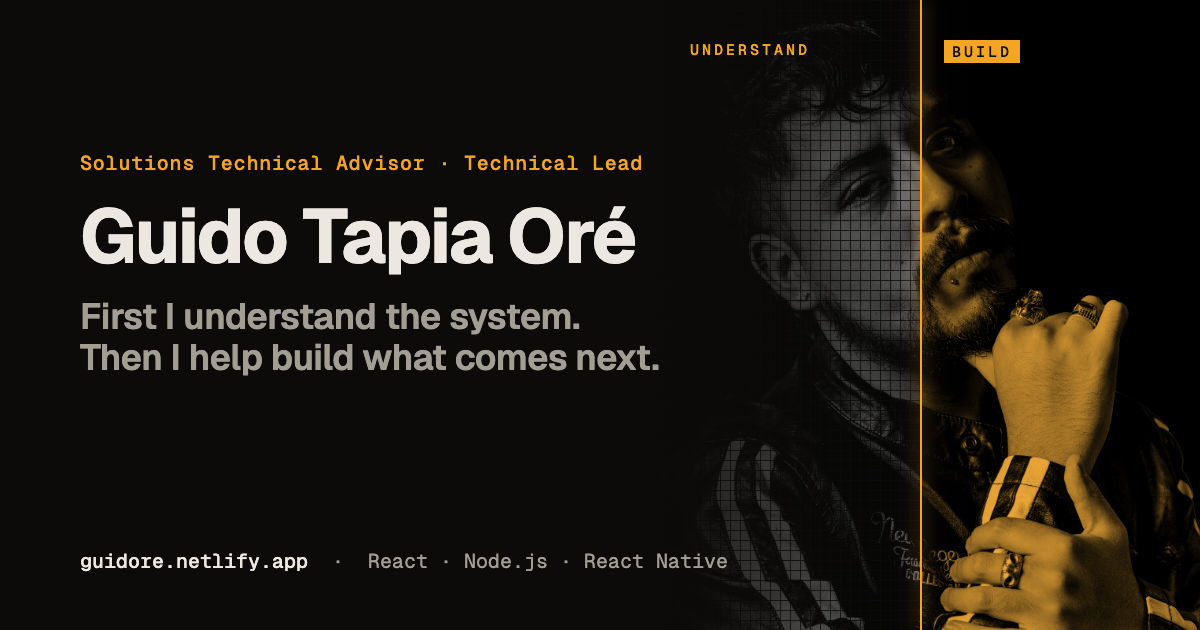
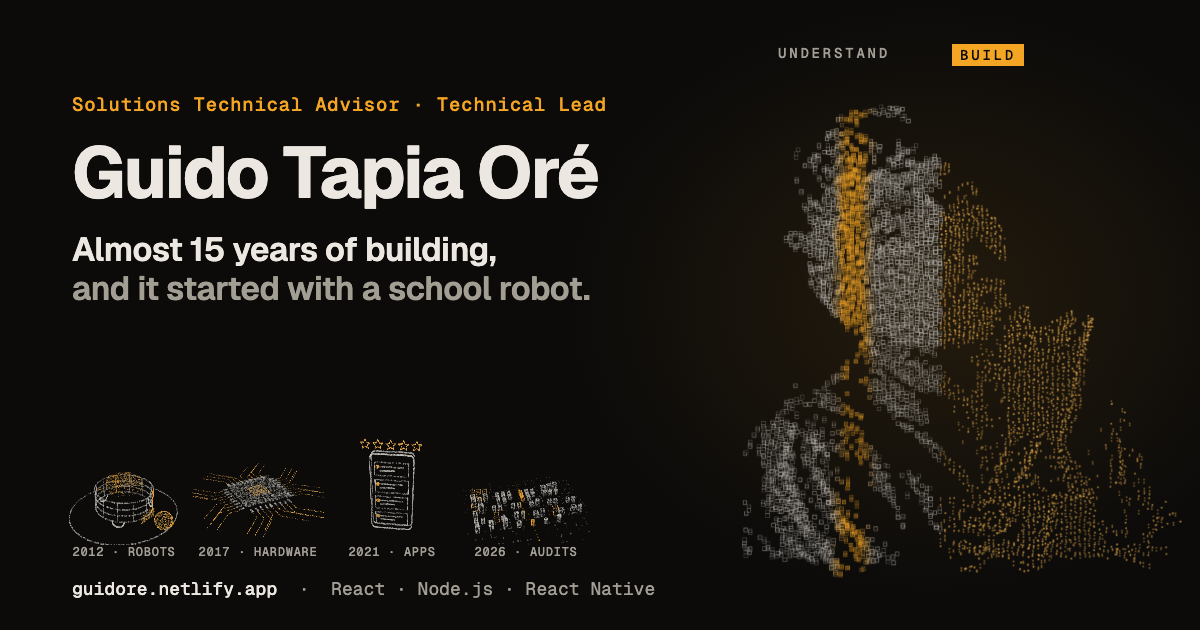
feat: page transitions, Story link, confirmed story facts, and a new OG card
- Native cross-document view transitions: case titles and covers glide from their card,
  the header stays put, the rest cross-fades. Off under reduced motion.
- Story link in the header; the nav fits from 860px up with an icon-only lens toggle
  below 1080px, and the menu takes over under 860px.
- Story: led the team in 2017 and 2018, freelance projects from 2018 to 2026 (latest
  Euterra) in the teaching chapter.
- OG card rebuilt from the story scene's own particle shapes.

diff --git a/src/i18n/ui.ts b/src/i18n/ui.ts
@@ -18,7 +18,13 @@ const en = {
     technologies: 'Technologies',
     skills: 'Skills',
   },
-  nav: { work: 'Work', experience: 'Experience', about: 'About', contact: 'Contact' },
+  nav: {
+    story: 'Story',
+    work: 'Work',
+    experience: 'Experience',
+    about: 'About',
+    contact: 'Contact',
+  },
   resume: 'Resume',
   resumePdf: 'Resume (PDF)',
   resumeUrl: '/Guido-Resume-En.pdf',
@@ -48,7 +54,7 @@ const en = {
       {
         kicker: '2012-2018 · Arequipa, Nagoya, Montreal',
         title: 'A school club turned into a world title.',
-        body: 'At 12 I joined a school group without really knowing what it was, and it turned out to be a competition robotics team. Contests followed, my first world competition came in 2014, and in 2017, in my first year of Computer Science at UCSP, I led the team that won the RoboCup Junior Soccer SuperTeams world championship in Nagoya. We took second in Montreal the year after.',
+        body: 'At 12 I joined a school group without really knowing what it was, and it turned out to be a competition robotics team. Contests followed, my first world competition came in 2014, and in 2017, in my first year of Computer Science at UCSP, I led the team that won the RoboCup Junior Soccer SuperTeams world championship in Nagoya. I led it again in Montreal the year after, and we took second.',
       },
       {
         kicker: '2017-2019 · Apselom, Edusoftnet',
@@ -56,9 +62,9 @@ const en = {
         body: 'So I built devices that run every day: smart waste monitors, with C libraries that cut their debugging time in half, and school bell systems that no longer needed anyone to schedule them. All while staying near the top of the UCSP university-wide ranking.',
       },
       {
-        kicker: '2018-2021 · UCSP, La Salle, CEPROTEC',
-        title: 'Then I started teaching what I knew.',
-        body: 'Robotics at UCSP, IT at a secondary school and a technical institute. Explaining a circuit to a room of teenagers is the fastest way to find out whether you understand it, and it became the skill I leaned on most in my next job.',
+        kicker: '2018-2021 · UCSP, La Salle, CEPROTEC, freelance',
+        title: 'Then I started teaching what I knew, and building for clients.',
+        body: 'Robotics at UCSP, IT at a secondary school and a technical institute. Explaining a circuit to a room of teenagers is the fastest way to find out whether you understand it, and it became the skill I leaned on most in my next job. 2018 was also my first freelance project for a Peruvian company; there have been several since, the latest for Euterra in 2026.',
       },
       {
         kicker: '2021-2025 · RAVN, remote',
@@ -83,7 +89,7 @@ const en = {
       {
         kicker: 'Next',
         title: 'Almost 15 years later, still building.',
-        body: 'Web and mobile products in React, Node.js, and React Native, plus freelance work for Peruvian companies, for teams that want someone who reads the whole system before building on it. If that’s your team, let’s talk.',
+        body: 'Web and mobile products in React, Node.js, and React Native, for teams that want someone who reads the whole system before building on it. If that’s your team, let’s talk.',
       },
     ],
     cityNote:
@@ -158,7 +164,13 @@ const es = {
     technologies: 'Tecnologías',
     skills: 'Habilidades',
   },
-  nav: { work: 'Trabajo', experience: 'Experiencia', about: 'Sobre mí', contact: 'Contacto' },
+  nav: {
+    story: 'Historia',
+    work: 'Trabajo',
+    experience: 'Experiencia',
+    about: 'Sobre mí',
+    contact: 'Contacto',
+  },
   resume: 'CV',
   resumePdf: 'CV (PDF)',
   resumeUrl: '/Guido-Resume-Es.pdf',
@@ -188,7 +200,7 @@ const es = {
       {
         kicker: '2012-2018 · Arequipa, Nagoya, Montreal',
         title: 'Un club del colegio terminó en un título mundial.',
-        body: 'A los 12 me uní a un grupo del colegio sin saber bien de qué trataba, y resultó ser un equipo de robótica de competencia. Vinieron los concursos, mi primer mundial en 2014 y, en 2017, en mi primer año de Ciencia de la Computación en la UCSP, lideré el equipo que ganó el campeonato mundial de RoboCup Junior Soccer SuperTeams en Nagoya. Al año siguiente quedamos segundos en Montreal.',
+        body: 'A los 12 me uní a un grupo del colegio sin saber bien de qué trataba, y resultó ser un equipo de robótica de competencia. Vinieron los concursos, mi primer mundial en 2014 y, en 2017, en mi primer año de Ciencia de la Computación en la UCSP, lideré el equipo que ganó el campeonato mundial de RoboCup Junior Soccer SuperTeams en Nagoya. Al año siguiente lo volví a liderar en Montreal y quedamos segundos.',
       },
       {
         kicker: '2017-2019 · Apselom, Edusoftnet',
@@ -196,9 +208,9 @@ const es = {
         body: 'Así que construí dispositivos que funcionan todos los días: monitores inteligentes de residuos, con librerías en C que redujeron su tiempo de depuración a la mitad, y sistemas de timbres escolares que ya no necesitaban que alguien los programara a mano. Todo sin salir de los primeros puestos del ranking general de la UCSP.',
       },
       {
-        kicker: '2018-2021 · UCSP, La Salle, CEPROTEC',
-        title: 'Después empecé a enseñar lo que sabía.',
-        body: 'Robótica en la UCSP, informática en un colegio y en un instituto técnico. Explicarle un circuito a un salón de adolescentes es la forma más rápida de saber si lo entiendes, y fue la habilidad que más usé en mi siguiente trabajo.',
+        kicker: '2018-2021 · UCSP, La Salle, CEPROTEC, freelance',
+        title: 'Después empecé a enseñar lo que sabía, y a construir para clientes.',
+        body: 'Robótica en la UCSP, informática en un colegio y en un instituto técnico. Explicarle un circuito a un salón de adolescentes es la forma más rápida de saber si lo entiendes, y fue la habilidad que más usé en mi siguiente trabajo. En 2018 también hice mi primer proyecto freelance para una empresa peruana; desde entonces vinieron varios, el último para Euterra en 2026.',
       },
       {
         kicker: '2021-2025 · RAVN, remoto',
@@ -223,7 +235,7 @@ const es = {
       {
         kicker: 'Lo que sigue',
         title: 'Casi 15 años después, sigo construyendo.',
-        body: 'Productos web y móviles con React, Node.js y React Native, además de trabajos freelance para empresas peruanas, para equipos que buscan a alguien que lea el sistema completo antes de construir sobre él. Si ese es tu equipo, hablemos.',
+        body: 'Productos web y móviles con React, Node.js y React Native, para equipos que buscan a alguien que lea el sistema completo antes de construir sobre él. Si ese es tu equipo, hablemos.',
       },
     ],
     cityNote:

diff --git a/src/styles/global.css b/src/styles/global.css
@@ -388,3 +388,30 @@ ul {
 .skip-link:focus {
   top: 12px;
 }
+
+/*
+ * Page transitions: the browser's own cross-document view transitions, so every page still
+ * loads for real (islands and scripts start as usual). Case-study titles and covers share a
+ * view-transition-name with their homepage card and glide between the two; the header stays
+ * put; everything else cross-fades. Browsers without support navigate normally.
+ */
+@media (prefers-reduced-motion: no-preference) {
+  @view-transition {
+    navigation: auto;
+  }
+}
+
+.header {
+  view-transition-name: site-header;
+}
+
+::view-transition-old(root),
+::view-transition-new(root) {
+  animation-duration: 0.28s;
+  animation-timing-function: var(--ease);
+}
+
+::view-transition-group(*) {
+  animation-duration: 0.42s;
+  animation-timing-function: var(--ease);
+}

diff --git a/CLAUDE.md b/CLAUDE.md
@@ -48,6 +48,7 @@ Node is pinned in `.nvmrc` (22.23.4; Astro 7 needs ≥22.23.4). Package manager 
   - The city is this repo's own `src/`, computed at build time by `src/lib/codeCity.ts` from `git ls-files` and `git log` (footprint = lines, height = commits touching the file, amber = top 12% by lines × commits). Without git every building gets the same height.
   - A small module script sets `data-scene="on"` before the island loads, so the layout doesn't jump. Without the scene (no JS, reduced motion, weak device) the chapters render as a plain grid and the city note is hidden.
 - `src/styles/global.css` holds the design tokens (dark only, warm black + amber `#f5a524`, Geist + Geist Mono via Fontsource) and shared classes (`.container`, `.section`, `.eyebrow`, `.btn`, `.tags`, `.prose`, `.reveal`).
+- Page transitions are the browser's native cross-document view transitions (`@view-transition` in `global.css`, inside a reduced-motion guard), not Astro's `ClientRouter`, so every page still loads for real and islands start as usual. Case-study titles and covers share `view-transition-name: work-<slug>-title|cover` between the homepage card (`Work.astro`) and `WorkEntry.astro`; the header is its own group so it stays put.
 - `.reveal` is a CSS-only scroll animation (`animation-timeline: view()`). It's progressive, and off under reduced motion.
 - Understand lens (header toggle, key `U`, `Esc` off): `src/scripts/lens.ts` + `src/styles/lens.css`. On first use it deep-clones `<main>` and the footer into an inert, aria-hidden overlay at the same document coordinates, clipped to a circle around the pointer (touch: drag the rim). The copy is restyled as a blueprint; labels come from `data-bp` attributes on component roots (code names, language-neutral), and it re-clones when `<main>` resizes.
 - Lens gotcha: an `<astro-island>` in the live DOM hydrates again. The clone is built in a detached document, and islands, images, and videos become sized boxes before it is adopted. Keep it that way.
@@ -73,4 +74,4 @@ Node is pinned in `.nvmrc` (22.23.4; Astro 7 needs ≥22.23.4). Package manager 
   - Hands-on: JS/TS, Node, React, React Native, Python, .NET. Review and audit depth only: Java, Swift, Kotlin, C++. The About section splits them deliberately.
   - Don't claim impact numbers that are still being measured (see the funnel case study).
 - Voice: first person, direct and specific, with a light personal touch ("making sure no one makes them crash right before the demo"). Keep the humor, but never trade accuracy for it.
-- The resume PDFs and `public/og.png` are generated outside the build. The resume comes from the LaTeX CV; regenerate the OG card if the role or tagline changes.
+- The resume PDFs and `public/og.png` are generated outside the build. The OG card uses screenshots of the story scene's own shapes (split face, robot, chip, phone, city) on a 1200×630 HTML layout. The resume comes from the LaTeX CV; regenerate the OG card if the role or tagline changes.
